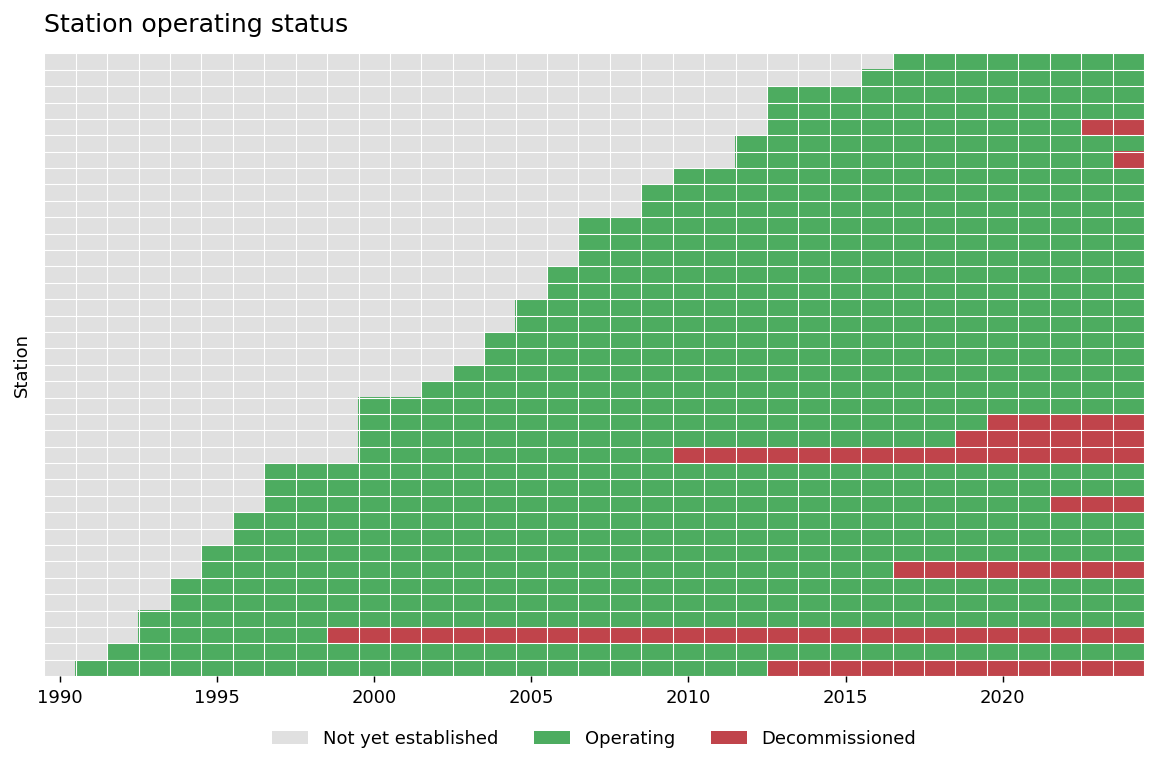
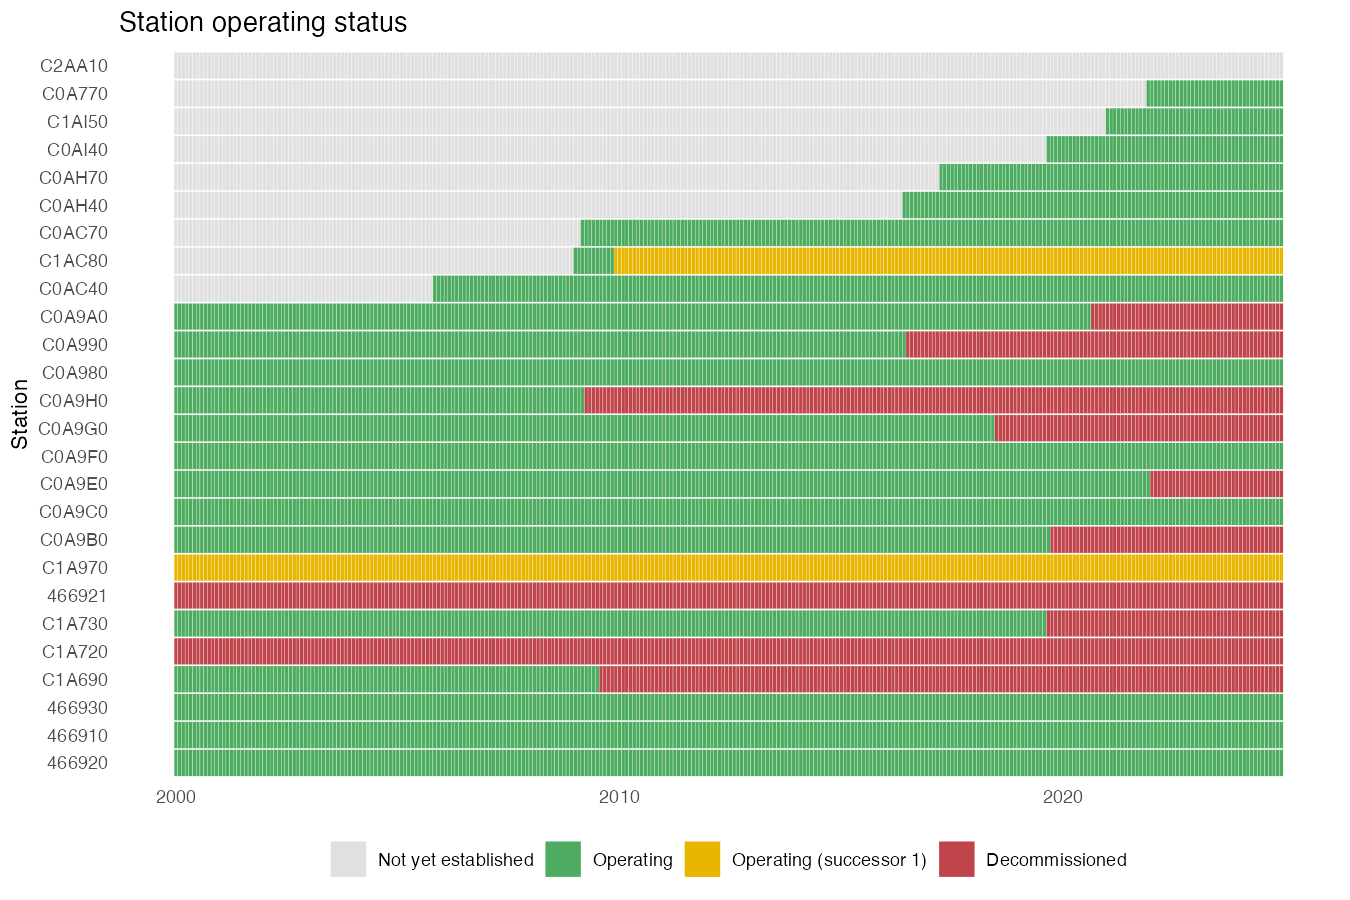
u

diff --git a/README.md b/README.md
@@ -82,8 +82,7 @@ plot_station_panel(start = "1990-01-01", end = "2024-12-31", by = "year")
 ```r
 st  <- get_stations(active_only = FALSE)
 tp  <- st[st$county == "臺北市", ]
-plot_station_panel(tp, start = "2000-01-01", end = "2024-12-31", by = "month",
-                   sort = "succession")
+plot_station_panel(tp, start = "2000-01-01", end = "2024-12-31", by = "month")
 ```
 
 ![Station operating-status panel for Taipei](man/figures/station-panel.png)